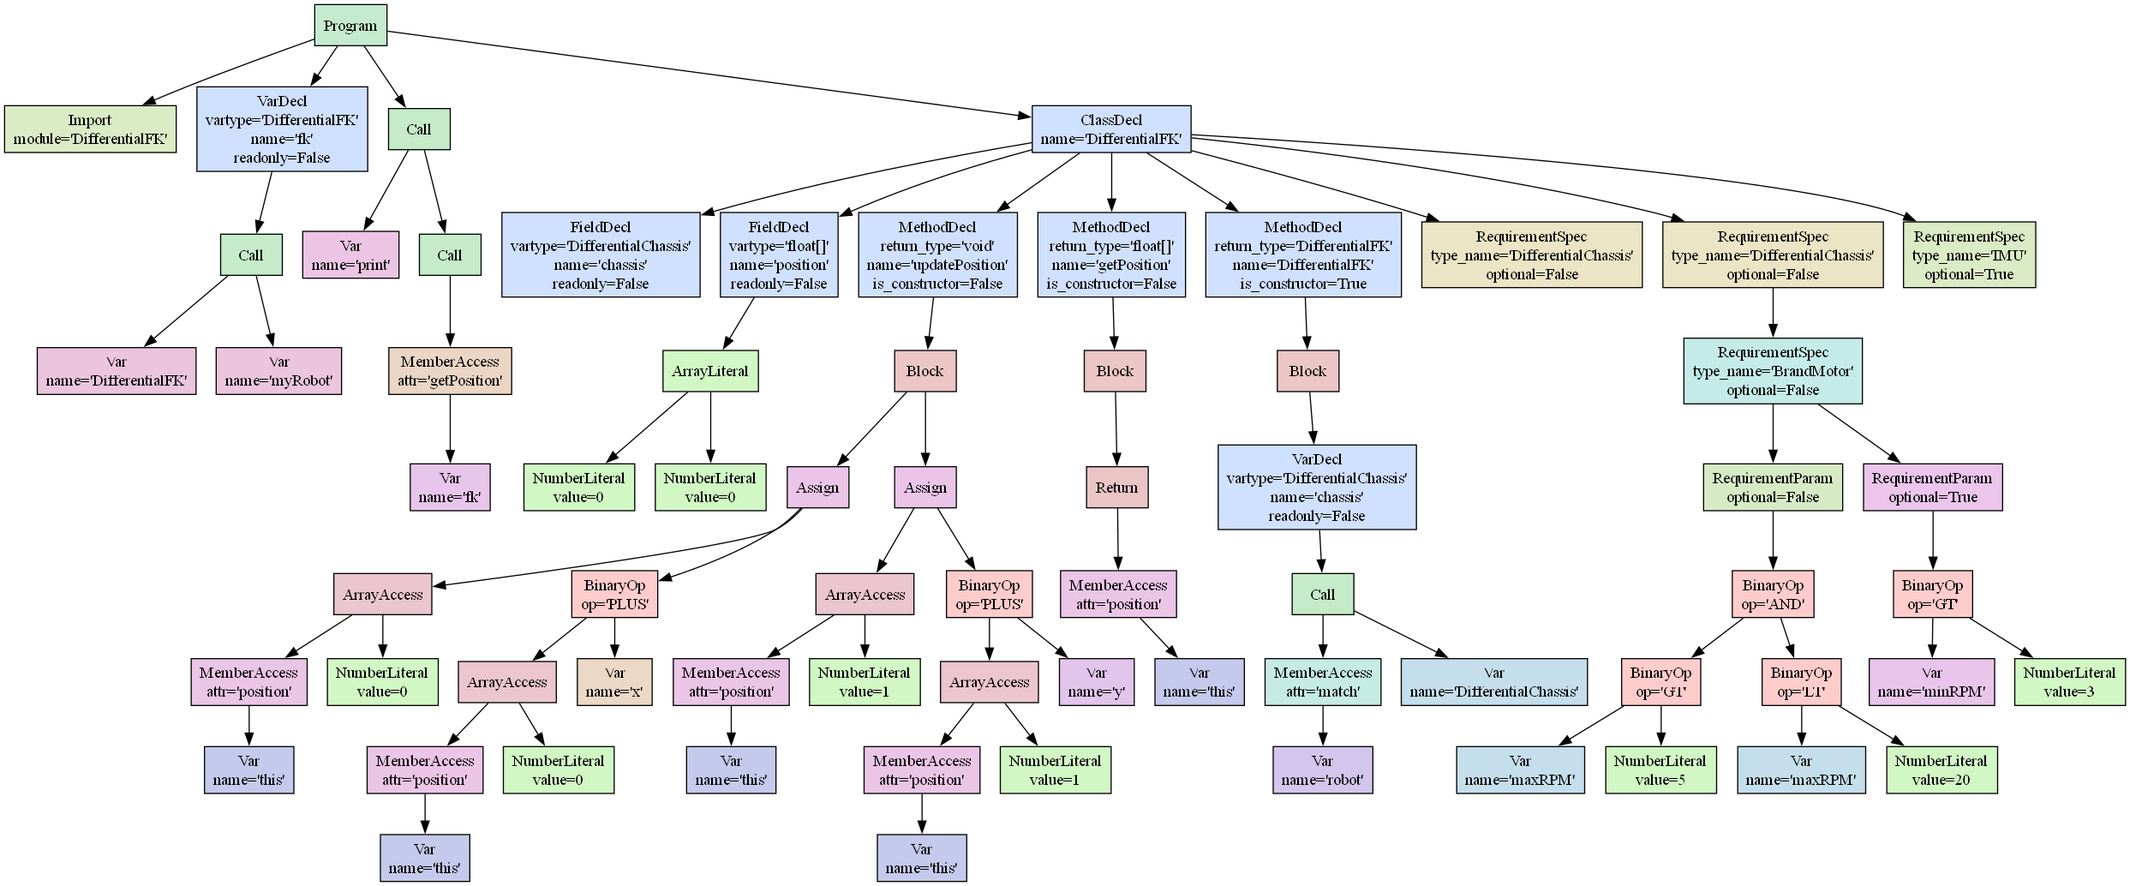
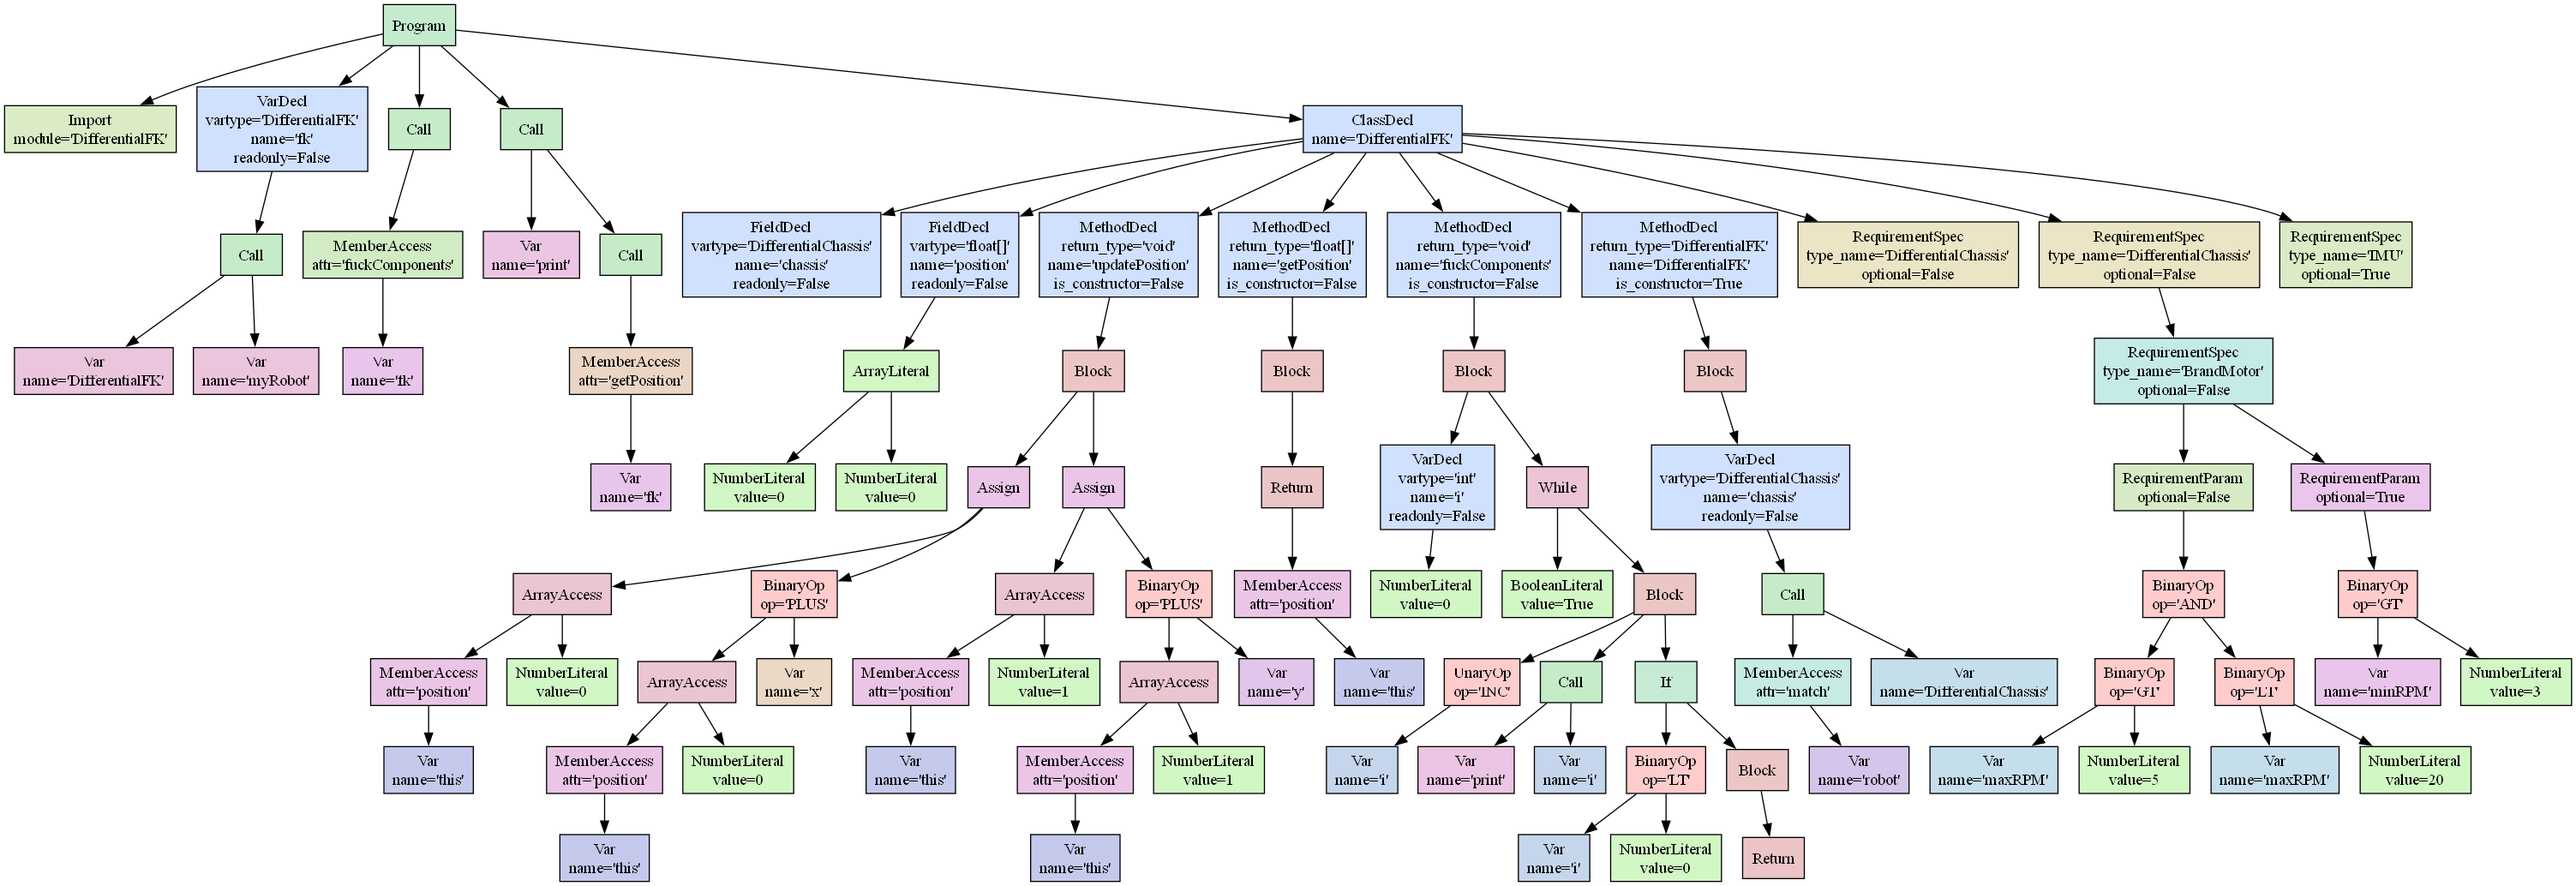
allow infinite loops and disallow robots as subcomponents

diff --git a/mars_compiler/component_validator.py b/mars_compiler/component_validator.py
@@ -67,6 +67,10 @@ class ComponentValidator:
                 raise ComponentValidationError(
                     f"Subcomponent '{sub.name}' in '{comp.name}' references unknown component '{sub.type_name}'"
                 )
+            if self._is_robot_family(sub.type_name):
+                raise ComponentValidationError(
+                    f"Subcomponent '{sub.name}' in '{comp.name}' cannot be a Robot-derived component ('{sub.type_name}')"
+                )
             iface["subcomponents"][sub.name] = sub.type_name
             # Enforce mandatory params on subcomponent are bound or have defaults
             required = self._required_params(self.components[sub.type_name])
@@ -112,6 +116,16 @@ class ComponentValidator:
         if typ.endswith("[]"):
             return f"array<{self._normalize_type(typ[:-2])}>"
         return typ
+
+    def _is_robot_family(self, type_name: str) -> bool:
+        if type_name == "Robot":
+            return True
+        cur = self.components.get(type_name)
+        while cur and cur.parent:
+            if cur.parent == "Robot":
+                return True
+            cur = self.components.get(cur.parent)
+        return False
 
     def _required_params(self, comp_def):
         """Return params without defaults (value is None)."""

diff --git a/mars_compiler/vm.py b/mars_compiler/vm.py
@@ -108,11 +108,11 @@ class VM:
         self.pc = func_pc + param_count
 
 
-    def run(self, max_steps=1000000, debug=False):
+    def run(self, max_steps=None, debug=False):
         steps = 0
         while self.pc < len(self.code):
             steps += 1
-            if steps > max_steps:
+            if max_steps is not None and steps > max_steps:
                 raise VMError("Exceeded maximum VM steps; possible infinite loop")
             instr = self.code[self.pc]
             op, *args = instr  # unpack opcode and any arguments
